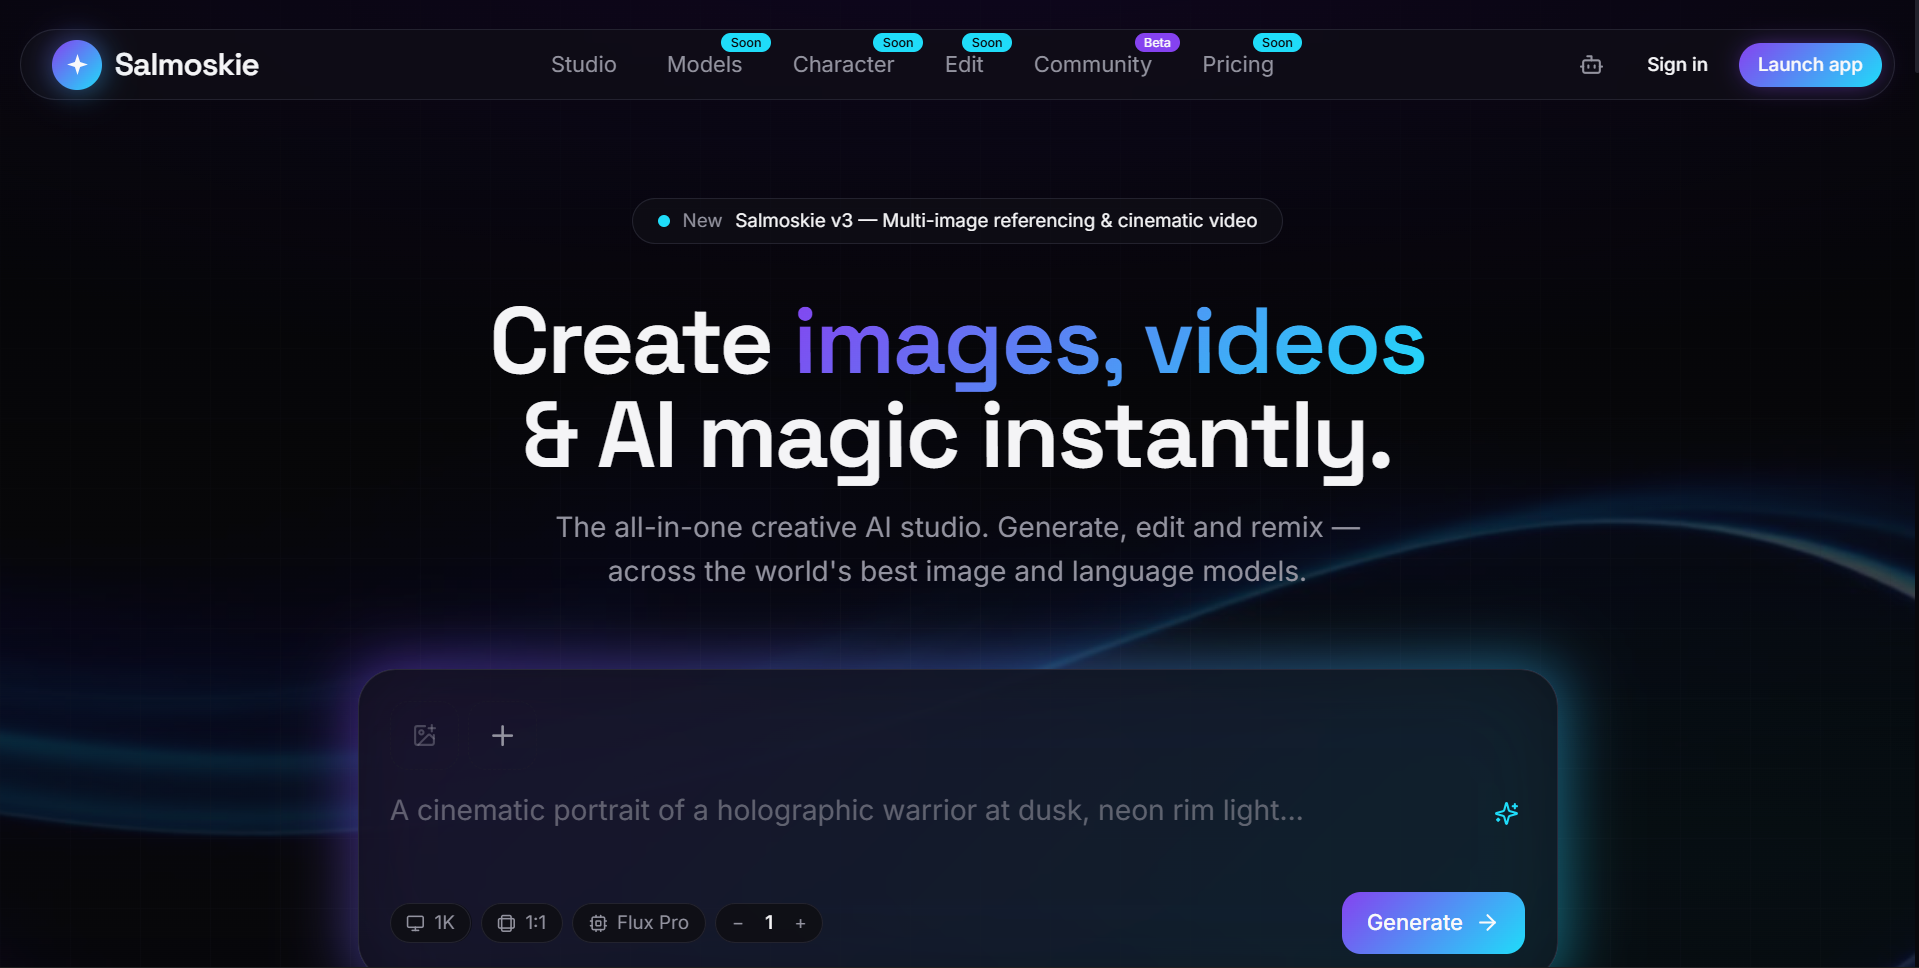
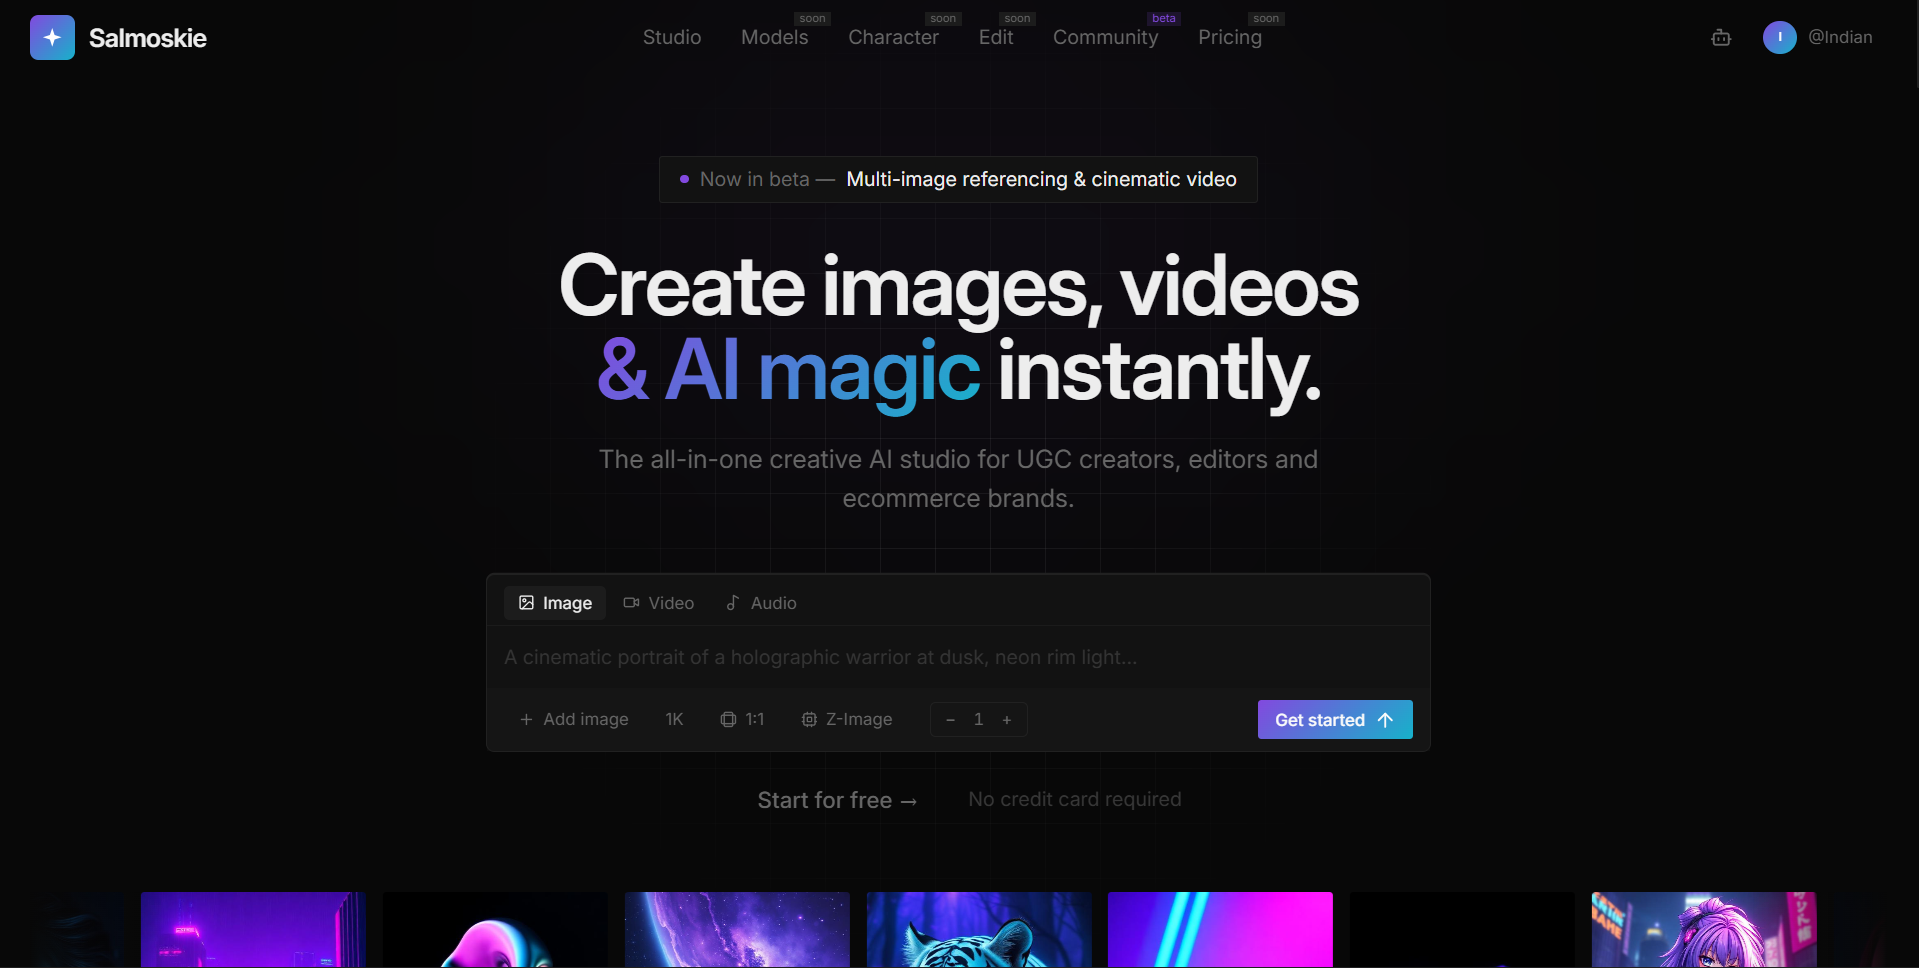
Change-Medias

diff --git a/src/pages/home/HomeBody.tsx b/src/pages/home/HomeBody.tsx
@@ -15,11 +15,11 @@ export function HomeBody() {
         <div className="intro-body">
           <h1 className="intro-name">Mark</h1>
           <p className="intro-role">
-            <span className="typing">Software Engineer</span>
+            <span className="typing">Full Stack Developer</span>
           </p>
         </div>
         <p className="intro-footer">
-          Result-driven <span>Software Engineer</span> focused on building
+          Result-driven <span>Full Stack Developer</span> focused on building
           scalable, user-centered <span>web applications</span>. I work across
           the full development lifecycle, from planning and system design to
           deployment. I use and integrate <span>AI</span> in my workflow to

diff --git a/src/pages/projects/ProjectsBody.tsx b/src/pages/projects/ProjectsBody.tsx
@@ -23,7 +23,7 @@ export function ProjectsBody() {
       cutDetails:
         "AI-powered platform for multimedia generation with credit-based usage, microservices, and early beta testing",
       fullDetails: `AI Generate is a scalable AI platform for image, video, and audio generation built with a credit-based system for creators, editors, and clients. It uses a microservices architecture, with an AI Chat module built in Python by a dedicated backend team. Services communicate through well-defined APIs between Python and Node.js/Express, ensuring scalability and separation of concerns. Redis and BullMQ handle queueing and job prioritization for heavy AI workloads. Supabase manages authentication and primary storage, while Cloudflare R2 provides backup storage. The system is deployed with Railway for backend services, Vercel for frontend, and RunPod GPUs running ComfyUI for AI generation. A secure GPU proxy layer with API key authentication and tunneling (Cloudflare Tunnel / ngrok) protects direct GPU access and hides public IPs. The platform is currently in a 30-user private beta used to test stability and identify bottlenecks before full release. I lead the project as full-stack developer and system architect, managing frontend, backend, and coordination with Python and frontend developers. Upcoming features include a creative community, collaboration tools between clients and creators, and a job marketplace for editors and brands with integrated portfolios.`,
-      link: "https://ai-generator-frontend-git-master-markanthonyys-projects.vercel.app/",
+      link: "https://image-generator-zeta-sand.vercel.app/",
       id: "placeholder1",
       tags: [
         "Tailwind",